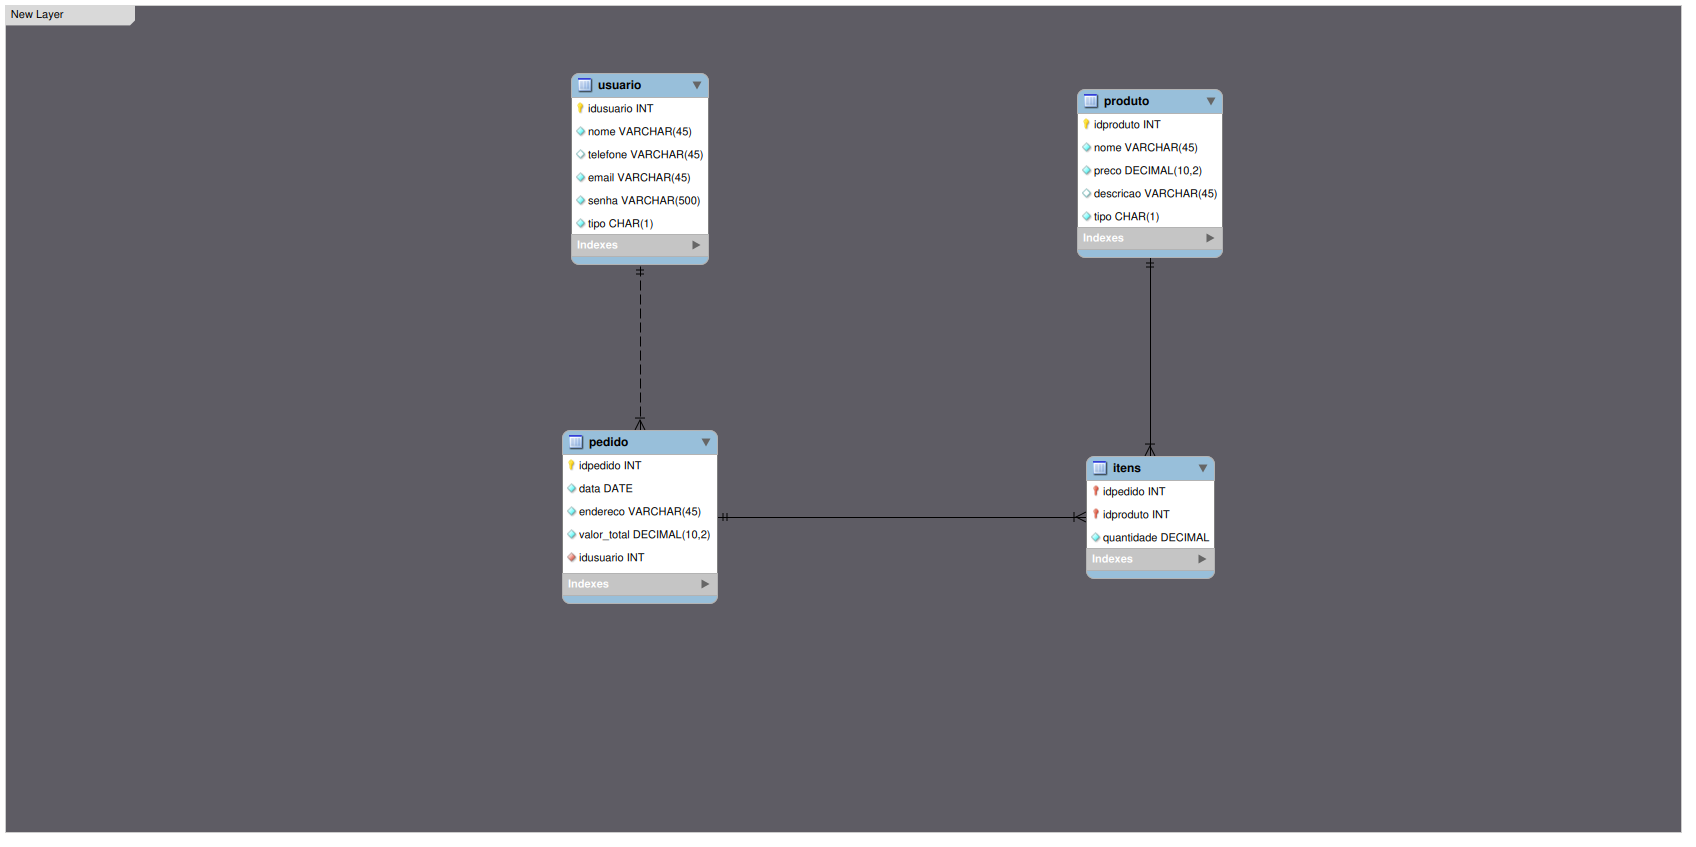
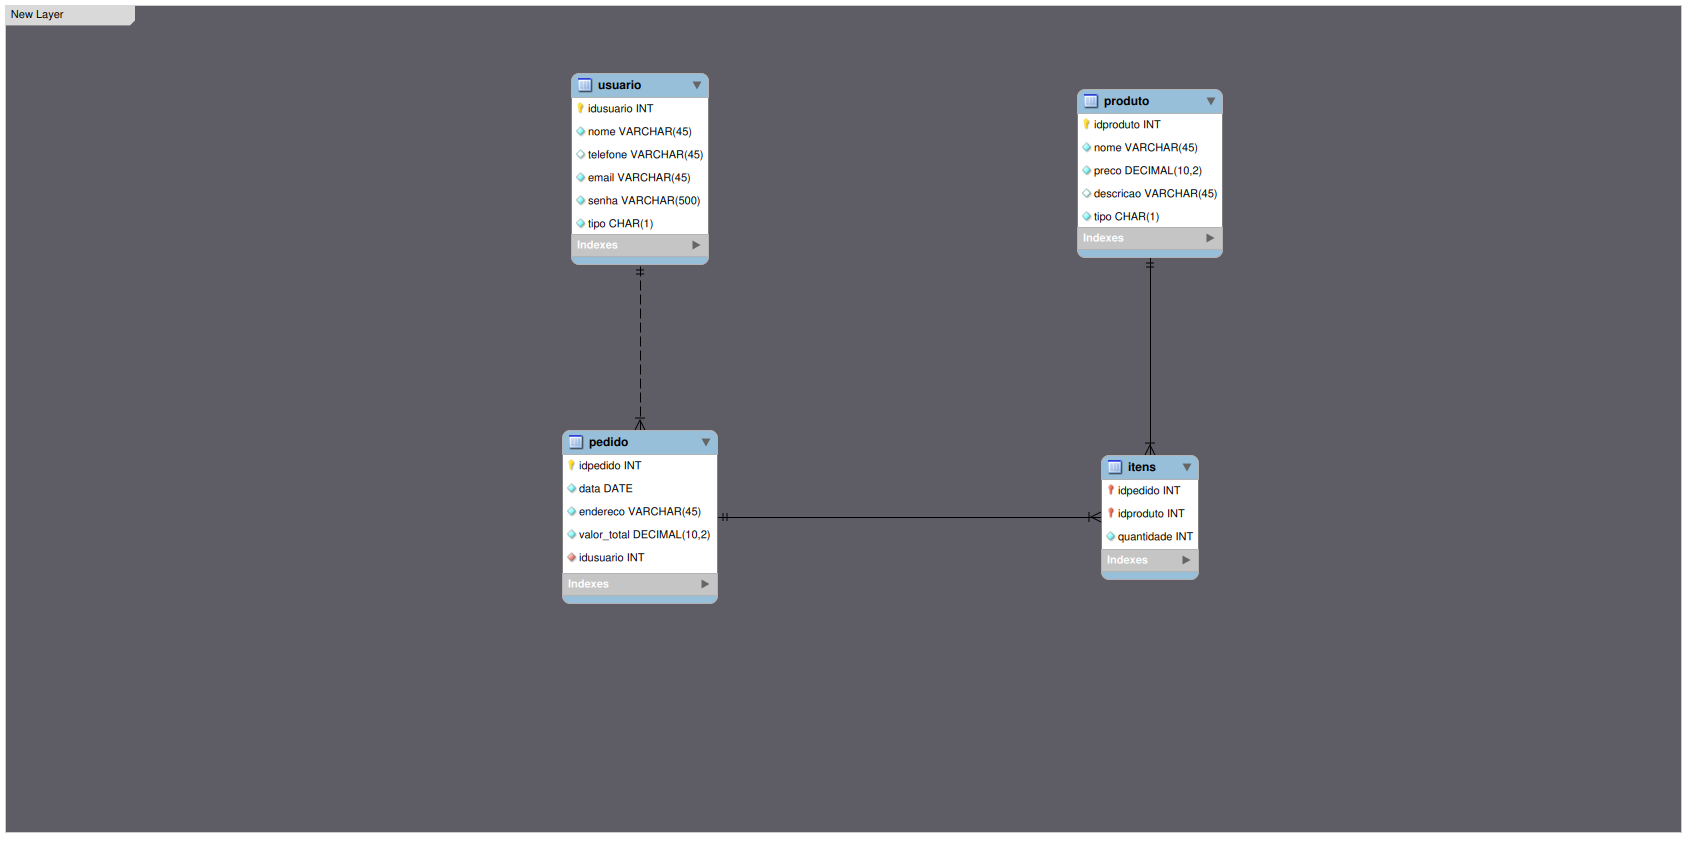
coisax

Changed region(s): [[0.625, 0.5218, 0.7188, 0.706]]

diff --git a/TrabalhoBurguer/funcoes/funcoes_hamburgueria.php b/TrabalhoBurguer/funcoes/funcoes_hamburgueria.php
@@ -106,11 +106,11 @@ function listarProduto($conexao){
     return $lista_produto;
 }
 
-function salvarPedido($conexao, $data, $endereco, $valor_total){
-    $sql = "INSERT INTO pedido (data, endereco, valor_total) VALUES (?, ?, ?)";
+function salvarPedido($conexao, $data, $endereco, $valor_total, $idusuario){
+    $sql = "INSERT INTO pedido (data, endereco, valor_total, idusuario) VALUES (?, ?, ?, ?)";
     $comando = mysqli_prepare($conexao, $sql);
     
-    mysqli_stmt_bind_param($comando, 'ssd', $data, $endereco, $valor_total);
+    mysqli_stmt_bind_param($comando, 'ssdi', $data, $endereco, $valor_total, $idusuario);
     
     mysqli_stmt_execute($comando);
     mysqli_stmt_close($comando);
@@ -134,7 +134,7 @@ function editarPedido($conexao, $data, $endereco, $valor_total, $idpedido){
     $sql = "UPDATE pedido SET data=?, endereco=?, valor_total=? WHERE idpedido=?";
     $comando = mysqli_prepare($conexao, $sql);
     
-    mysqli_stmt_bind_param($comando, 'ssdi', $data, $endereco,$idpedido);
+    mysqli_stmt_bind_param($comando, 'ssdi', $data, $endereco, $valor_total,$idpedido);
     
 
     $funcionou = mysqli_stmt_execute($comando);

diff --git a/TrabalhoBurguer/testes/teste_editarPedido.php b/TrabalhoBurguer/testes/teste_editarPedido.php
@@ -5,10 +5,10 @@ require_once "../funcoes/funcoes_hamburgueria.php";
 
 $data ="2025-06-13";
 $endereco ="Rua 3";
-$telefone ="4002-8952";
+$valor_total =55.50;
 $idpedido =1;
 
 
-editarPedido($conexao, $data, $endereco, $telefone, $idpedido);
+editarPedido($conexao, $data, $endereco, $valor_total, $idpedido);
 
 ?>

diff --git a/TrabalhoBurguer/testes/teste_salvarItem.php b/TrabalhoBurguer/testes/teste_salvarItem.php
@@ -2,9 +2,10 @@
     require_once "../funcoes/funcoes_hamburgueria.php";
     require_once "../conexao.php";
 
-    $idproduto=1;
+    $idproduto=2;
     $idpedido=2;
+    $quantidade=3;
 
-    salvarItem($conexao, $idproduto, $idpedido);
+    salvarItem($conexao, $idproduto, $idpedido, $quantidade);
 
 ?>

diff --git a/TrabalhoBurguer/testes/teste_salvarPedido.php b/TrabalhoBurguer/testes/teste_salvarPedido.php
@@ -5,8 +5,9 @@
     //YYYY-MM-DD
     $data="2025-05-27";
     $endereco="rua 1";
-    $telefone="4002-8922";
+    $valor_total=45.25;
+    $idusuario=1;
 
-    salvarPedido($conexao, $data, $endereco, $telefone);
+    salvarPedido($conexao, $data, $endereco, $valor_total, $idusuario);
 
 ?>
